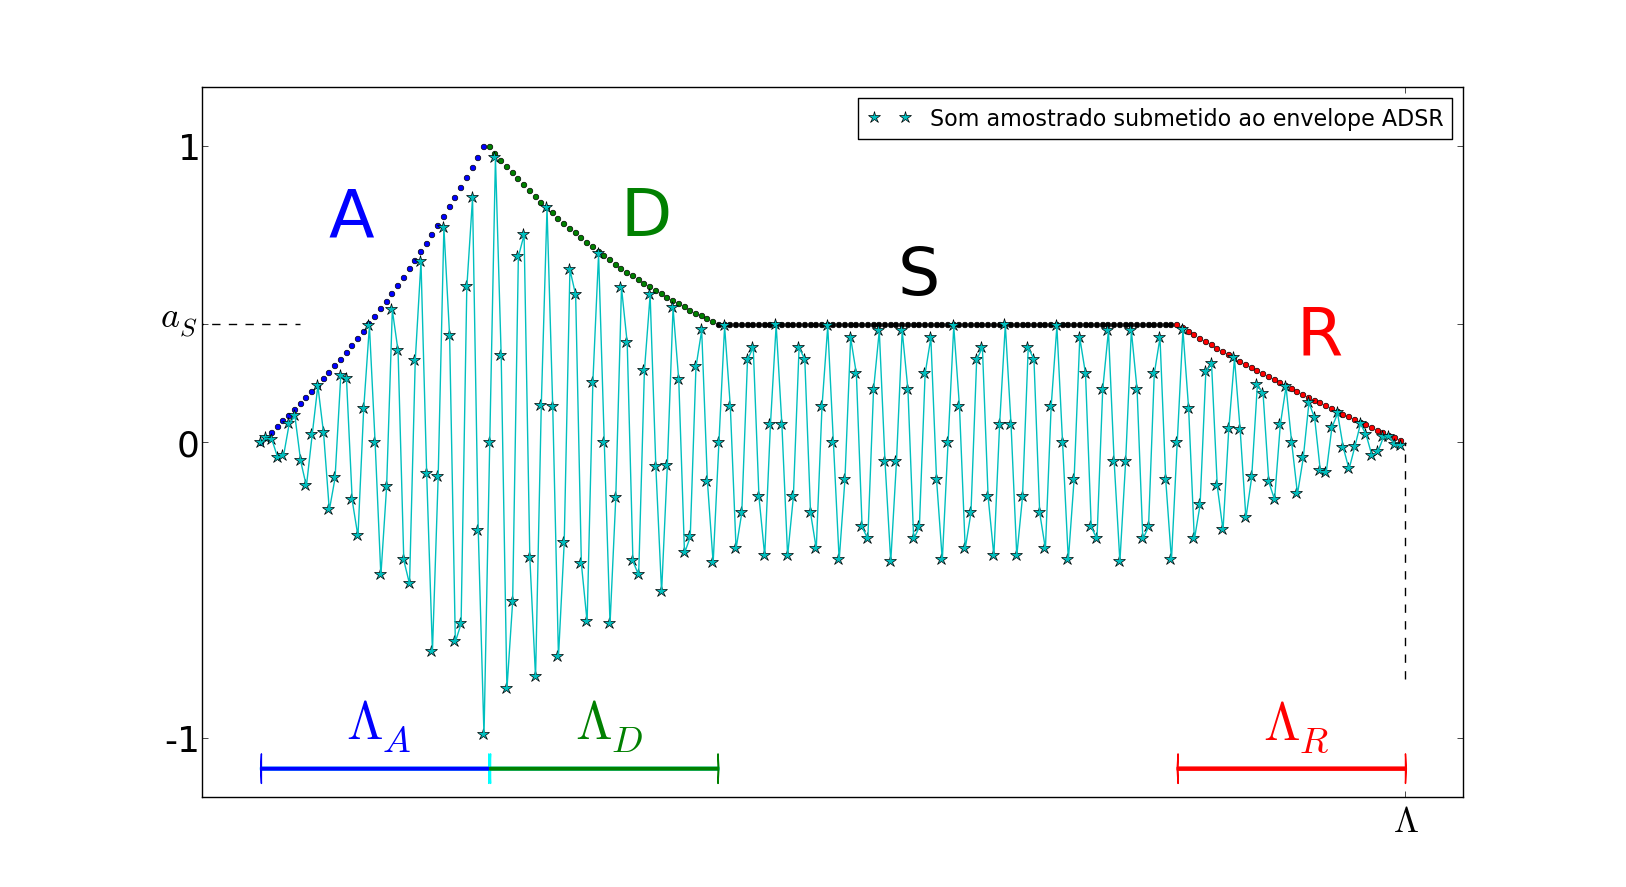
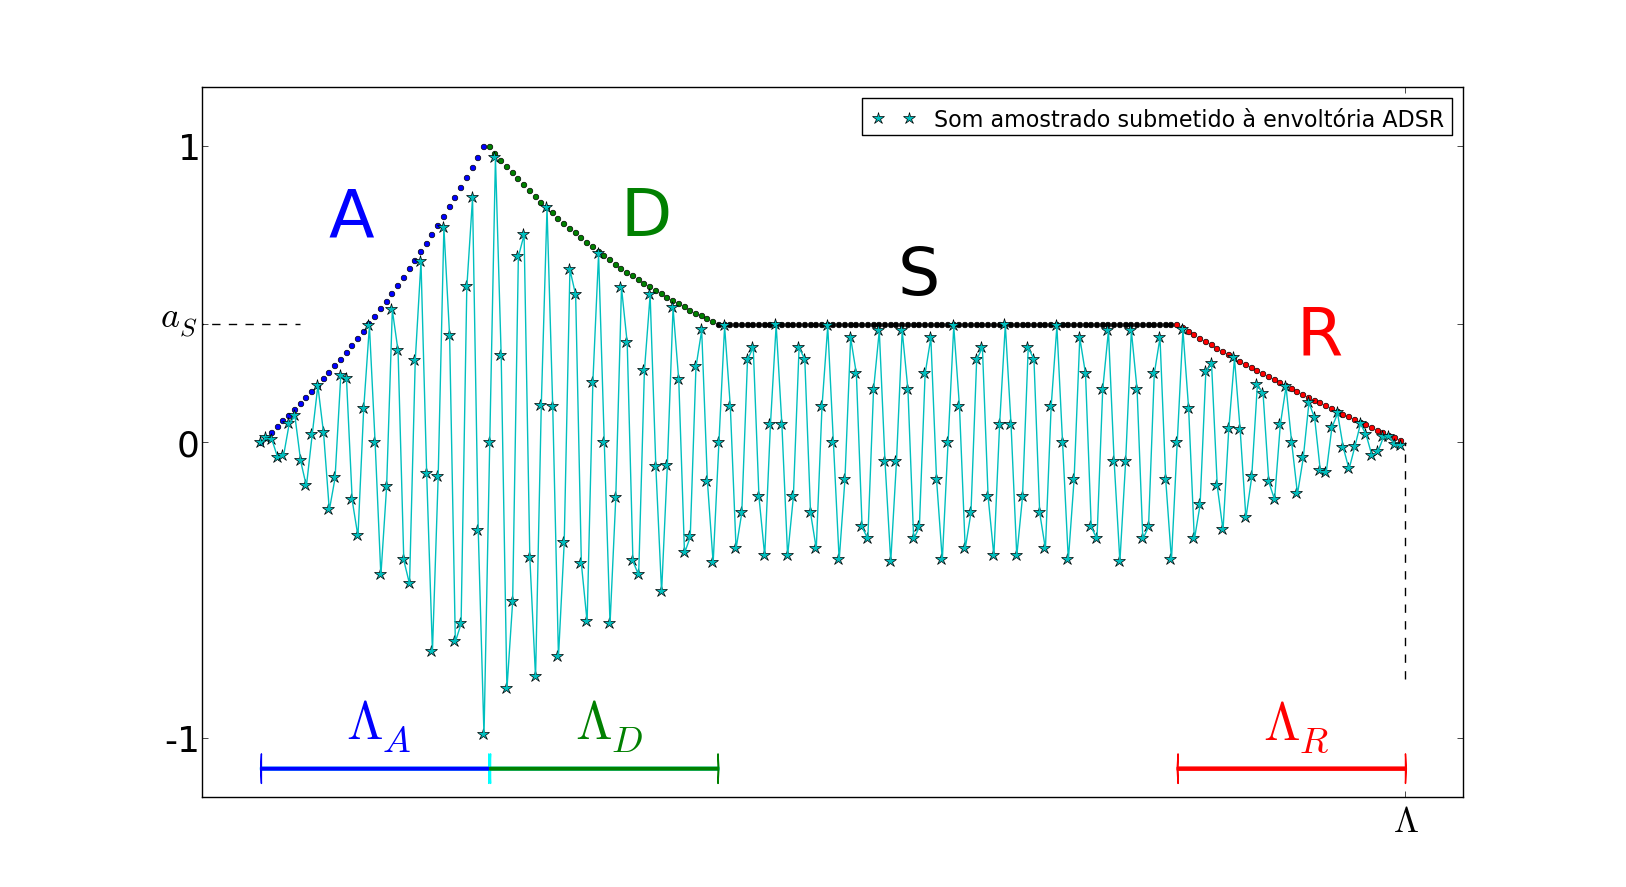
atualizando figura e pequeno abuso de notacao

Changed region(s): [[0.5228, 0.1218, 0.8918, 0.1826]]

diff --git a/devEresultados.tex b/devEresultados.tex
@@ -77,7 +77,7 @@ Outro valor de referência é a amplificação de amplitude
 necessária para que uma sequência tenha o volume dobrado ($10dB$s a mais):
 
 \begin{gather}
-10log_{10}\frac{pot(T^{'}_i)}{pot(T_i)} = 10 \quad \Rightarrow \quad \sum_{i=0}^{\Delta.f_a-1}t^{'2}_i=10\sum_{i=0}^{\Delta.f_a-1}t_i^2=\sum_{i=0}^{\Delta.f_a-1}(\sqrt{10}.t_i)^2 \\
+10log_{10}\frac{pot(T^{'}_i)}{pot(T_i)} = 10 \quad \Rightarrow \quad \sum_{i=0}^{\lfloor \Delta.f_a \rfloor -1}t^{'2}_i=10\sum_{i=0}^{\Lambda-1}t_i^2=\sum_{i=0}^{\Lambda-1}(\sqrt{10}.t_i)^2 \\
 \therefore \quad t^{'}_i=\sqrt{10}t_i \quad \Rightarrow \quad t^{'}_i \approx 3,16t_i
 \end{gather}
 
@@ -1421,7 +1421,7 @@ Com $\Lambda_X=\lfloor \Delta . f_a \rfloor\;\;\forall\;\; X$.
 
 \begin{figure}[htpq!]
     \centering
-    \caption{Envelope ADSR canônico e uma sequência sonora arbitrária sendo submetida ao envelope}
+    \caption{Envoltória ADSR canônica e uma sequência sonora arbitrária sendo submetida à envoltória}
         \includegraphics[width=\textwidth]{figuras/adsr}
         \label{fig:adsr}
 \end{figure}

diff --git a/scripts/adsr.py b/scripts/adsr.py
@@ -31,7 +31,7 @@ p.text(2*91,.3,"R",fontsize=48,color='red')
 som=n.random.random(De)*2-1
 som=n.sin(n.linspace(0,45*2*n.pi,De,endpoint=False))
 som=som*s
-p.plot(som,'c*',markersize=9,label=u"Som amostrado submetido ao envelope ADSR")
+p.plot(som,'c*',markersize=9,label=u"Som amostrado submetido à envoltória ADSR")
 p.plot(som,'c')
 p.plot((len(som),len(som)),(-.8,0),"k--")
 
